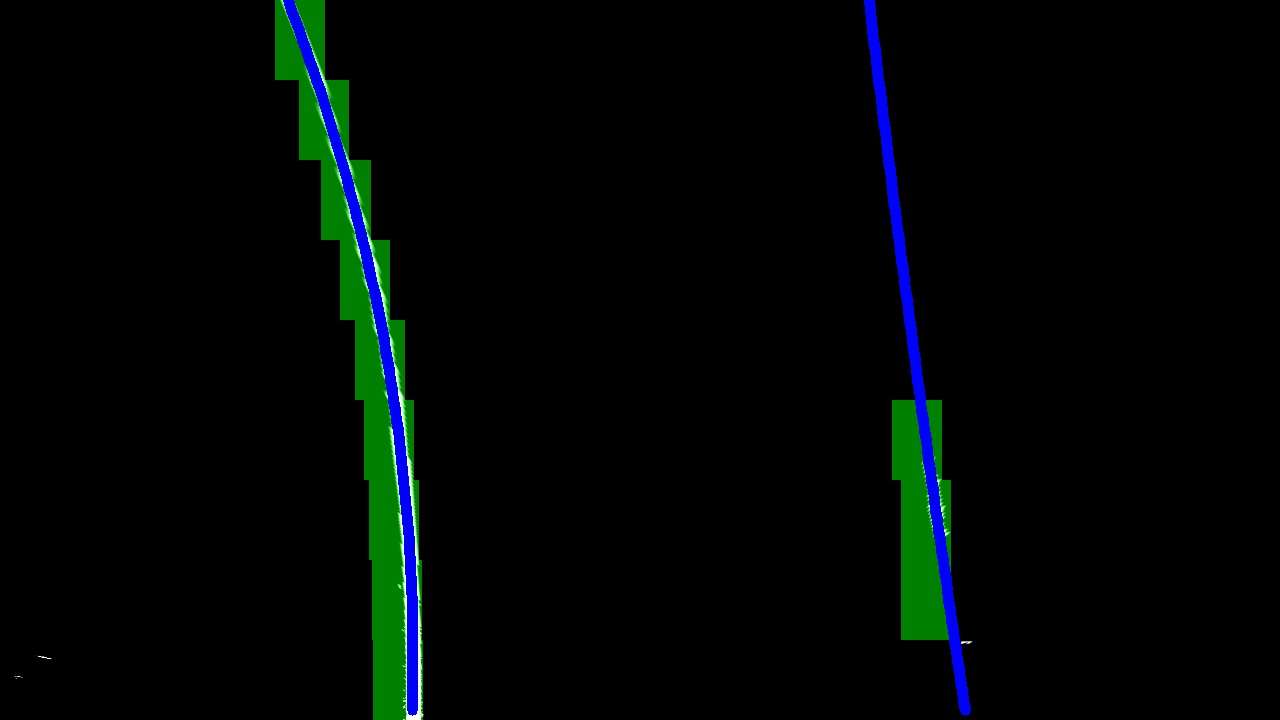
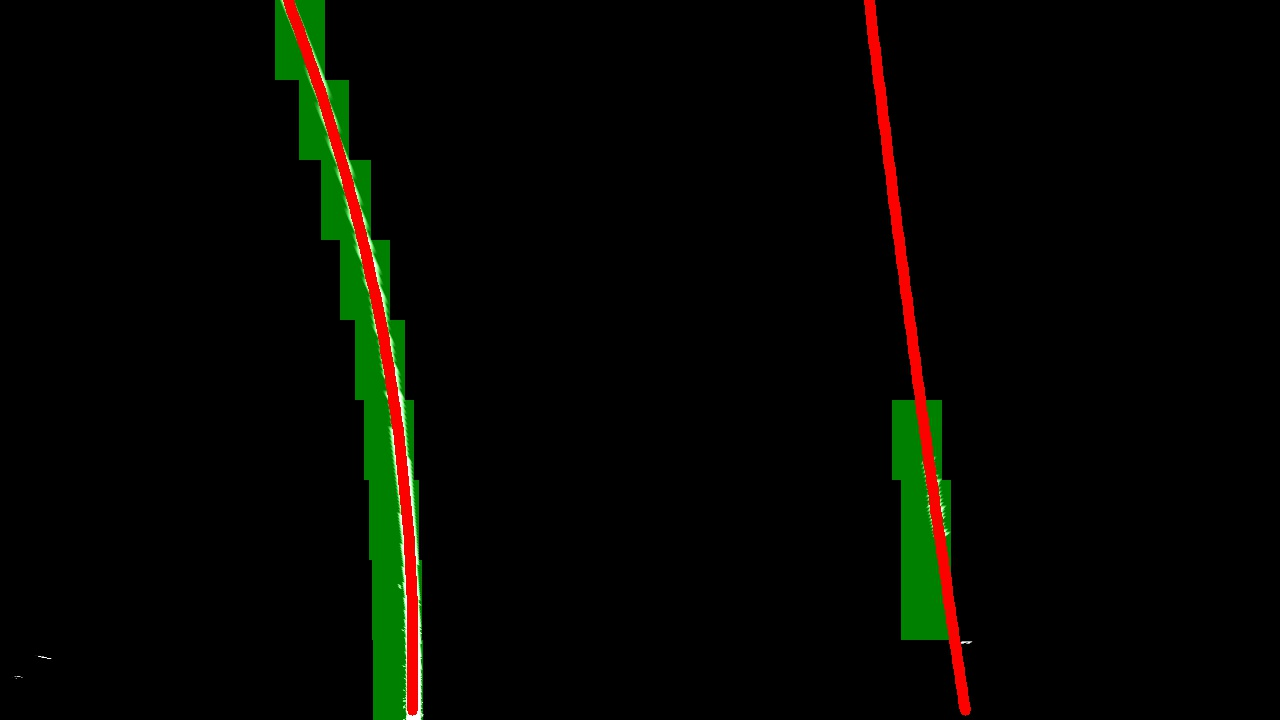
Change color of fitted lines on warped images to red

Changed region(s): [[0.6562, 0.0, 0.7812, 1.0], [0.25, 0.1222, 0.3438, 1.0], [0.2188, 0.0, 0.25, 0.1222]]

diff --git a/marklane.py b/marklane.py
@@ -263,6 +263,6 @@ def fit_warped(\
     cv2.polylines(output, \
             [np.vstack([linely,linex]).T.reshape(-1,1,2).astype(np.int32), \
             np.vstack([linery,linex]).T.reshape(-1,1,2).astype(np.int32)], \
-            False, (255,0,0), 10)
+            False, (0,0,255), 10)
     return output
 
